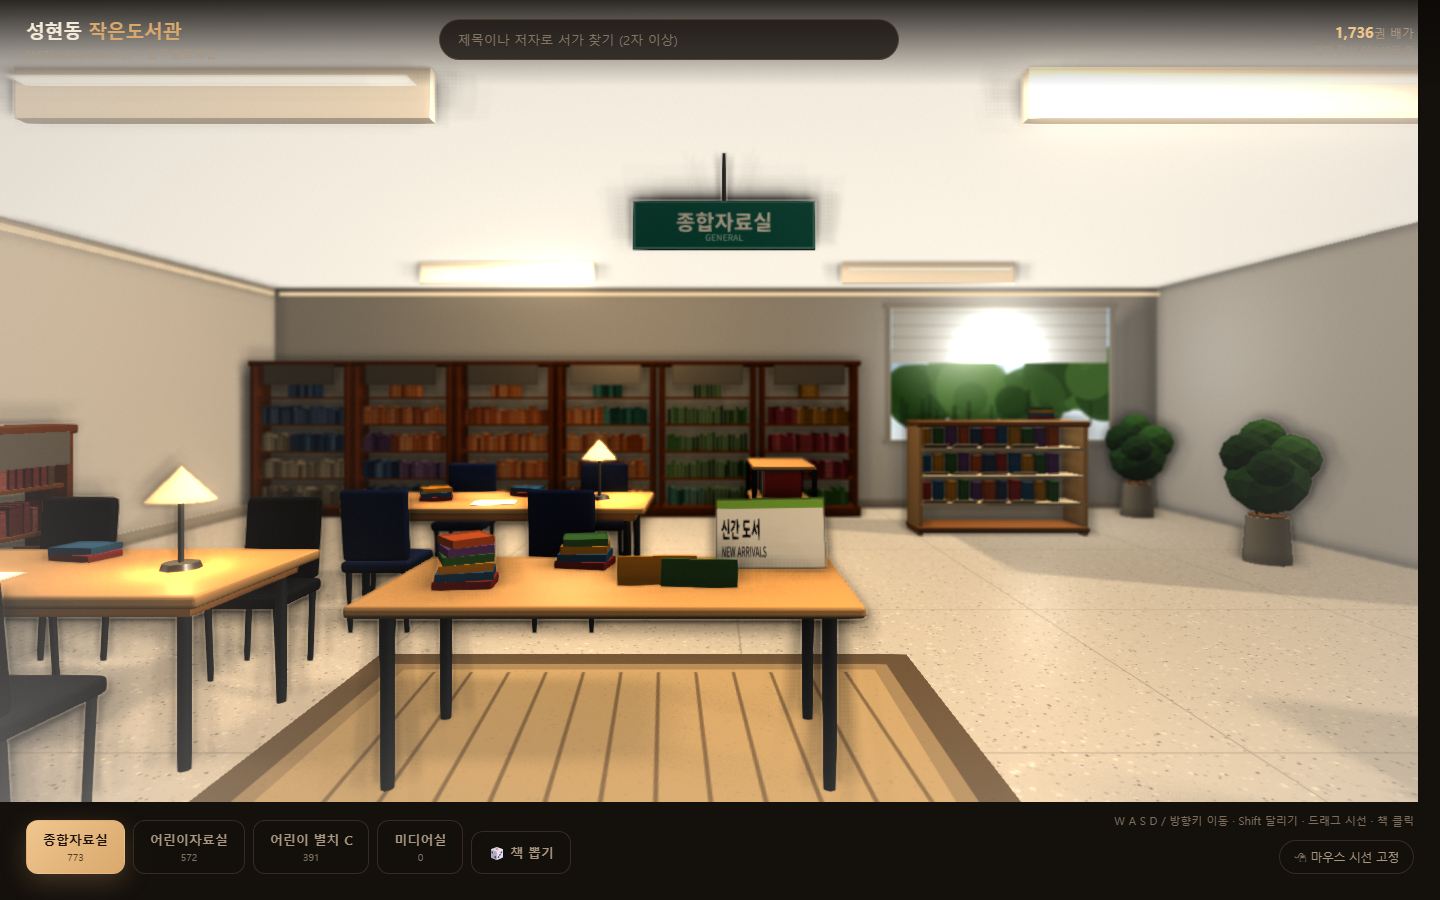
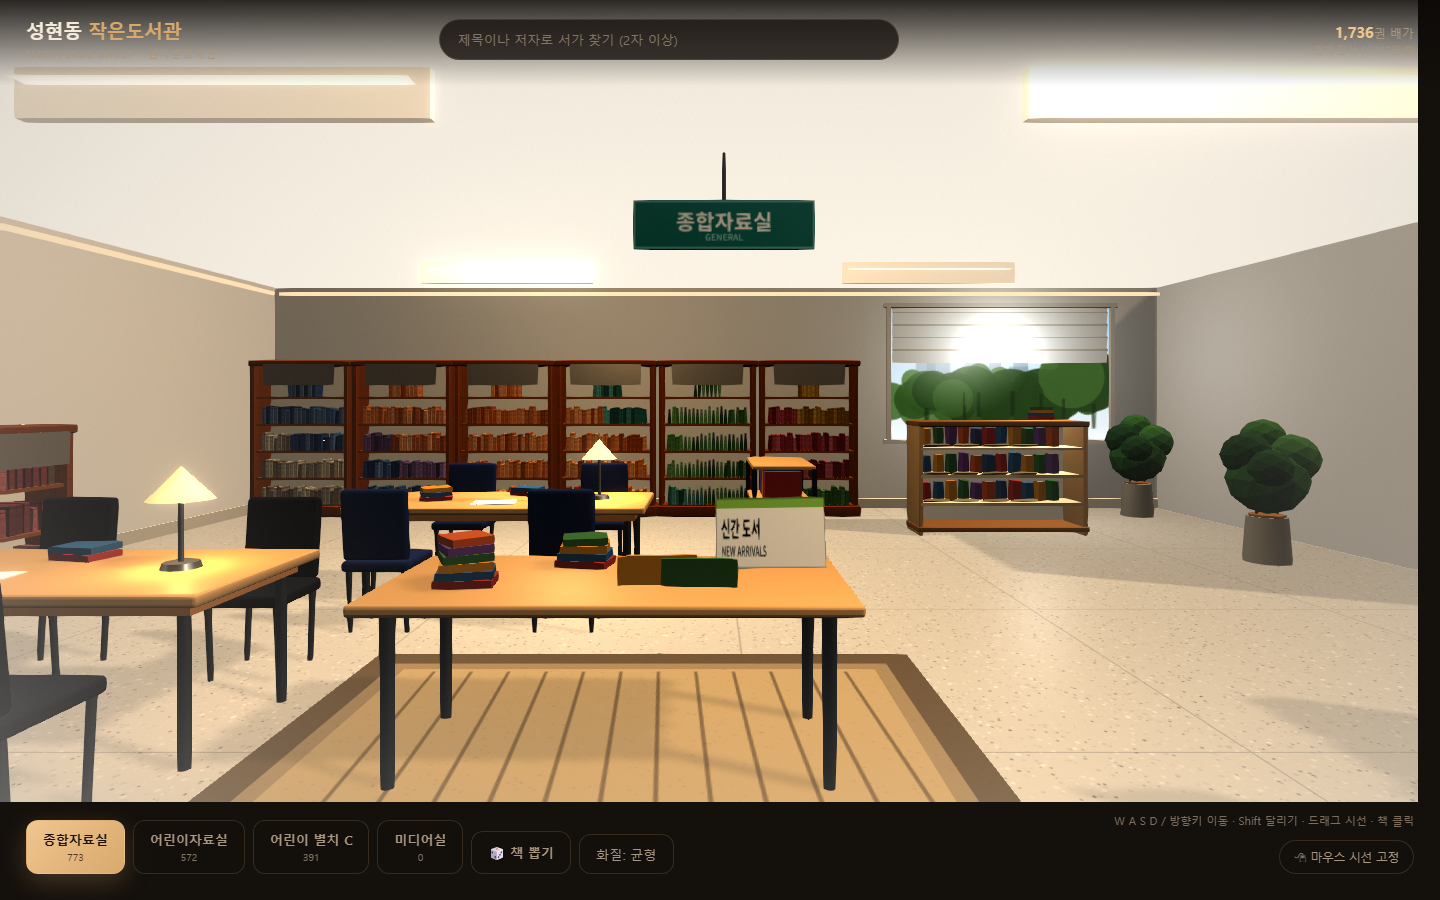
perf: 기본 후처리 1-pass화·그림자 경량화, INT-002 등록
- src/scene/Post.tsx: SSAO·보케를 ?quality=high로 게이트, 기본은 블룸·비네트·그레이드·SMAA만 1회 렌더
- src/scene/LibraryCanvas.tsx: SoftShadows 제거, dpr 1.5, 그림자 1024, ContactShadows frames=1·512, 포인트 라이트 4개
- src/scene/ShelfBay.tsx: 서가 프레임 castShadow 제거로 섀도 패스 부하 절감
- src/ui/Hud.tsx: 화질(균형/고품질) 토글 추가
- README·docs/preview: 기본 균형 모드·고품질 옵션 안내 및 미리보기 갱신
- docs/intent: INT-002(이동 버벅거림 해소 + 전량 KDC 배가)와 INDEX 추가

diff --git a/src/scene/Post.tsx b/src/scene/Post.tsx
@@ -51,9 +51,9 @@ const GRADE_SHADER = {
 };
 
 /**
- * 실내 장면의 깊이감을 위한 후처리.
- * SSAO(접지 음영) + 약한 블룸 + 비네트 + SMAA.
- * 모바일/소형 화면에서는 비용을 줄이기 위해 SSAO·블룸을 생략한다.
+ * 실내 장면의 후처리.
+ * 기본(균형) 모드: 블룸·비네트·컬러그레이드·SMAA만 사용해 장면을 1회만 렌더링한다.
+ * `?quality=high`일 때만 SSAO·보케를 추가한다(장면 추가 렌더링 → 고사양 전용).
  */
 export function Post() {
   const gl = useThree((s) => s.gl);
@@ -61,12 +61,13 @@ export function Post() {
   const camera = useThree((s) => s.camera);
   const size = useThree((s) => s.size);
   const small = size.width < 900;
+  const high = !small && new URLSearchParams(window.location.search).get('quality') === 'high';
 
   const composer = useMemo(() => {
     const c = new EffectComposer(gl);
     c.addPass(new RenderPass(scene, camera));
 
-    if (!small) {
+    if (high) {
       const ssao = new SSAOPass(scene, camera, size.width, size.height);
       ssao.kernelRadius = 0.32;
       ssao.minDistance = 0.0008;
@@ -80,10 +81,15 @@ export function Post() {
         maxblur: 0.006,
       });
       c.addPass(bokeh);
-
-      const bloom = new UnrealBloomPass(new THREE.Vector2(size.width, size.height), 0.1, 0.6, 0.95);
-      c.addPass(bloom);
     }
+
+    const bloom = new UnrealBloomPass(
+      new THREE.Vector2(size.width, size.height),
+      high ? 0.1 : 0.055,
+      0.6,
+      0.95
+    );
+    c.addPass(bloom);
 
     const vignette = new ShaderPass(VignetteShader);
     vignette.uniforms.offset.value = 1.04;
@@ -94,7 +100,7 @@ export function Post() {
     c.addPass(new SMAAPass());
     return { composer: c, grade };
     // eslint-disable-next-line react-hooks/exhaustive-deps
-  }, [gl, scene, camera, small]);
+  }, [gl, scene, camera, small, high]);
 
   useEffect(() => {
     composer.composer.setSize(size.width, size.height);

diff --git a/src/scene/LibraryCanvas.tsx b/src/scene/LibraryCanvas.tsx
@@ -1,6 +1,6 @@
 import { Suspense, useEffect } from 'react';
 import { Canvas, useThree } from '@react-three/fiber';
-import { ContactShadows, Environment, Lightformer, SoftShadows } from '@react-three/drei';
+import { ContactShadows, Environment, Lightformer } from '@react-three/drei';
 import * as THREE from 'three';
 import { useLibrary } from '../store';
 import { Room } from './Room';
@@ -36,7 +36,7 @@ function Lights() {
         intensity={1.1}
         color="#fff3e2"
         castShadow
-        shadow-mapSize={[2048, 2048]}
+        shadow-mapSize={[1024, 1024]}
         shadow-camera-left={-20}
         shadow-camera-right={20}
         shadow-camera-top={20}
@@ -51,7 +51,6 @@ function Lights() {
         [-12.0, -3.0],
         [-9.0, 2.5],
         [7.0, -5.0],
-        [1.0, 2.0],
         [13.0, 0.0],
       ].map(([x, z], i) => (
         <pointLight
@@ -85,7 +84,8 @@ function Scene() {
         blur={2.6}
         far={4}
         opacity={0.3}
-        resolution={1024}
+        frames={1}
+        resolution={512}
         color="#3f342b"
       />
       <FocusBook />
@@ -98,7 +98,7 @@ export function LibraryCanvas() {
   return (
     <Canvas
       shadows
-      dpr={[1, 1.8]}
+      dpr={[1, 1.5]}
       camera={{ fov: 58, near: 0.05, far: 90, position: [-10.6, 1.58, 3.6] }}
       gl={{ antialias: true, powerPreference: 'high-performance' }}
       onCreated={({ gl }) => {
@@ -109,8 +109,7 @@ export function LibraryCanvas() {
       onPointerMissed={() => useLibrary.getState().clearSelection()}
     >
       <color attach="background" args={['#e9e5dc']} />
-      <SoftShadows size={18} samples={10} focus={0.7} />
-      <Environment resolution={256} frames={1}>
+      <Environment resolution={128} frames={1}>
         <Lightformer
           form="rect"
           intensity={2.4}

diff --git a/src/scene/ShelfBay.tsx b/src/scene/ShelfBay.tsx
@@ -191,7 +191,7 @@ export function ShelfBay({ bay }: Props) {
         radius={0.012}
         smoothness={2}
         position={[-width / 2, height / 2, 0]}
-        castShadow
+       
         receiveShadow
       >
         <primitive object={frameMat} attach="material" />
@@ -201,7 +201,7 @@ export function ShelfBay({ bay }: Props) {
         radius={0.012}
         smoothness={2}
         position={[width / 2, height / 2, 0]}
-        castShadow
+       
         receiveShadow
       >
         <primitive object={frameMat} attach="material" />
@@ -217,7 +217,7 @@ export function ShelfBay({ bay }: Props) {
         radius={0.012}
         smoothness={2}
         position={[0, height - 0.035, 0]}
-        castShadow
+       
         receiveShadow
       >
         <primitive object={frameMat} attach="material" />
@@ -227,7 +227,7 @@ export function ShelfBay({ bay }: Props) {
         radius={0.012}
         smoothness={2}
         position={[0, 0.07, 0]}
-        castShadow
+       
         receiveShadow
       >
         <primitive object={frameMat} attach="material" />
@@ -235,7 +235,7 @@ export function ShelfBay({ bay }: Props) {
 
       {/* 선반 */}
       {Array.from({ length: rows }, (_, r) => (
-        <mesh key={r} position={[0, 0.14 + rowGap * r, 0]} receiveShadow castShadow>
+        <mesh key={r} position={[0, 0.14 + rowGap * r, 0]} receiveShadow>
           <boxGeometry args={[width, 0.03, SHELF_DEPTH]} />
           <primitive object={boardMat} attach="material" />
         </mesh>

diff --git a/src/ui/Hud.tsx b/src/ui/Hud.tsx
@@ -214,6 +214,7 @@ export function Hud() {
   const focusBay = useLibrary((s) => s.focusBay);
 
   const zones = layouts ? ZONE_ORDER.map((id) => layouts[id]) : [];
+  const highQuality = new URLSearchParams(window.location.search).get('quality') === 'high';
 
   const randomPick = () => {
     if (!layouts) return;
@@ -254,6 +255,18 @@ export function Hud() {
         ))}
         <button className="zone random" onClick={randomPick} title="현재 자료실에서 무작위로 한 권">
           🎲 책 뽑기
+        </button>
+        <button
+          className="zone quality"
+          title="SSAO·보케를 켜면 더 사실적이지만 GPU 부하가 큽니다"
+          onClick={() => {
+            const url = new URL(window.location.href);
+            if (highQuality) url.searchParams.delete('quality');
+            else url.searchParams.set('quality', 'high');
+            window.location.href = url.toString();
+          }}
+        >
+          {highQuality ? '화질: 고품질' : '화질: 균형'}
         </button>
       </nav>
 

diff --git a/docs/intent/planned/INT-002-walk-jank-and-full-kdc-shelving/intent.md b/docs/intent/planned/INT-002-walk-jank-and-full-kdc-shelving/intent.md
@@ -1,0 +1,56 @@
+---
+id: INT-002
+title: 3D 도서관 이동 버벅거림 해소 + 전체 56,307권 KDC 배가
+status: planned
+priority: P2
+created: 2026-11-12
+updated: 2026-11-12
+updated_at: 2026-11-12T20:19:46+09:00
+---
+
+# Intent: 3D 도서관 이동 버벅거림 해소 + 전체 56,307권 KDC 배가
+
+## 문제 (Problem)
+- 1인칭 도보(WASD·포인터 락)로 이동할 때 프레임이 끊긴다. 커밋 기준으로는 SSAO·Bokeh·Bloom·SMAA 후처리, ContactShadows(1024·매 프레임), 2048 그림자, SoftShadows가 겹쳐 돌았고, 포인터가 책 위를 지날 때마다 hover 스토어 갱신과 레이캐스트가 발생한다. 작업 트리에는 1차 경량화(후처리 `?quality=high` 게이트, ContactShadows `frames=1`·512, 그림자 1024, dpr 1.5, SoftShadows 제거)가 미커밋 상태로 존재하나 실측·검증 전이다.
+- 현재 3D 서가에는 섹션별 예산(budget)만큼 표본 1,736권만 배가되어 있어, 실제 56,307권이 서가에 있다는 사실과 화면이 불일치한다. 31,352권은 `shelf_loc_name`이 비어 `other`로 분류되어 배가 대상에서 빠졌다.
+
+## 제안 결과 (Proposed outcome)
+- 이동 중 체감 끊김 없이 걸어 다닐 수 있다. 데스크톱 60fps(모바일 30fps) 기준으로 후처리·그림자·hover 비용이 예산 안에 유지되고, 부족할 때는 화질이 자동 하향된다.
+- 로컬 `data/catalog.json`의 56,307권 전량이 KDC(`k`)·청구기호(`call`) 순으로 자료실·섹션 서가에 배치된다(런타임 도서관정보나루 API 호출 없음). 검색으로 어느 책이든 해당 서가·위치로 이동할 수 있고 상세 패널(표지·소장·청구기호)이 동작한다.
+- 전량 배가 이후에도 이동 성능 목표가 유지된다(렌더 밀도 LOD·지연 로딩 적용).
+
+## 영향 사용자 및 시스템 (Affected users and systems)
+- 사용자: 3D 도서관을 도보로 둘러보는 이용자(데스크톱·모바일 브라우저), 특정 책을 서가에서 찾는 이용자.
+- 시스템: `src/scene/Post.tsx`, `src/scene/LibraryCanvas.tsx`, `src/scene/ShelfBay.tsx`, `src/scene/Player.tsx`, `src/ui/Hud.tsx`, `src/store.ts`, `scripts/build-shelves.mjs`, `src/data/sections.ts`·`layout.ts`, `public/data/*`, 신규 전량 배가 데이터 파이프라인.
+
+## 제약 (Constraints)
+- React 19 + @react-three/fiber + three 스택을 유지하고, 신규 의존성·외부 에셋은 도입하지 않는다.
+- `.env`의 API 키는 브라우저에 노출하지 않는다. 이번 배가는 런타임 API 없이 로컬 카탈로그만 사용한다.
+- 작업 트리에 있는 미커밋 1차 최적화(후처리 게이트·그림자·dpr)를 되돌리지 않고, 실측으로 효과를 확인한 뒤 남은 병목만 보완한다.
+- `data/catalog.json`(20.5MB)을 그대로 클라이언트에 내려보내지 않는다. 존·섹션 단위 분할, 지연 로딩, 압축이 필요하다.
+- 현재 모델링된 베이 물리 용량은 `rows×cols×maxBays` 합계 2,356슬롯으로 56,307권의 4.2%에 불과하다. 전량 배가는 데이터 구조와 렌더 밀도 설계가 함께 필요하다.
+- KDC(`k`)가 없는 390권과 자료실 정보가 없는 31,352권의 존 배정 규칙을 정해야 한다(추정으로 채우되 근거를 남긴다).
+
+## 배경 · 결정 · 참조 (Context handoff)
+- 원 요구: "이동할 때 버벅거림이 심하다 — 어떻게 줄일까" + "56,000권이 실제 서가에 다 배가되어 있다. API 없더라도 KDC 보고 전부 배치해 달라". (출처: 대화 요청)
+- D-01: 성능 개선과 전량 배가를 하나의 intent로 묶고 성능 예산 확보를 선행 조건으로 둔다 — 근거: 전량 배가가 렌더 부하를 키우므로 순서를 분리하면 재작업이 발생 / 폐기 대안: 2개 intent 분리.
+- D-02: 배가 원천은 로컬 `data/catalog.json`(56,307권)이고 런타임 API는 쓰지 않는다 — 근거: 사용자가 API 없이 KDC 배치를 요청했고 카탈로그에 `k`·`call`이 존재 / 폐기 대안: `harvest.mjs` 재수집.
+- D-03: 1차 경량화가 작업 트리에 있으나 성능 목표는 미검증이다 — T-01에서 남은 병목(hover 레이캐스트·setWalk 이벤트, 전량 배가 시 렌더 밀도)을 실측해 확정한다.
+- 참조: `src/scene/Post.tsx:109` 매 프레임 `composer.render`, `:86` 블룸 상시 / `src/scene/LibraryCanvas.tsx:87` ContactShadows `frames=1`·512(1차 적용), `:39` 그림자 1024(1차 적용).
+- 참조: `src/scene/ShelfBay.tsx:144` pointermove마다 hover 갱신 → `src/ui/Hud.tsx:213` HUD 리렌더 / `src/scene/Player.tsx:96` 포인터 락 이동마다 `setWalk` 호출.
+- 참조: `scripts/build-shelves.mjs:67` 섹션 budget 기준 표본 추출(placed 1,736) / `scripts/harvest.mjs:56` `shelf_loc_name` 없으면 `other`(31,352권) / `src/data/sections.ts:49` 베이 용량 `rows×cols`, maxBays 합계 2,356슬롯.
+- 범위 밖·전제: 도서관정보나루 실시간 재수집·운영시스템 연동, 실측 도면 치수, 56k 전량의 개별 3D 클릭(렌더 LOD 시 검색·목록으로 대체)은 범위 밖. 전제: 카탈로그의 `k`(KDC)·`call`(저자기호)를 실제 배가 순서의 기준으로 신뢰한다.
+
+## 미해결 질문 (Open questions)
+- [ ] 56,307권을 3D에서 어느 수준으로 표현할까? (① 데이터 전량 + 성능 예산 내 렌더 LOD ② 물리적으로 전량 렌더(베이·밀도 대폭 확장) ③ 기존 표본 유지)
+- [ ] 자료실 정보가 없는 31,352권(`other`)을 어떻게 배정할까? (① KDC만으로 종합자료실 배치 ② KDC·별치 휴리스틱으로 어린이/종합 분배 ③ 배가 제외)
+- [ ] 성능 목표 기기·수치는? (① 데스크톱 60fps + 모바일 30fps ② 데스크톱 60fps만 ③ 최소 사양 기준 별도)
+- [ ] 성능이 부족할 때 화질 자동 하향(후처리·dpr)을 허용할까? (① 허용 ② 고정 화질 ③ 사용자 토글)
+
+## 작업 (Tasks)
+- [ ] T-01 [P1] 이동 중 성능 기준선 실측(프레임 시간·draw call·후처리/그림자 비용) 및 병목 확정
+- [ ] T-02 [P1] 후처리 1차 경량화(`?quality=high` 게이트·dpr 1.5) 검증 및 잔여 비용(블룸 상시) 조정
+- [ ] T-03 [P1] 그림자·조명 1차 경량화(ContactShadows `frames=1`·1024/512, SoftShadows 제거) 검증 및 정적 shadow autoUpdate 검토
+- [ ] T-04 [P1] hover·레이캐스트·setWalk 이벤트 경로 스로틀 및 HUD 리렌더 차단
+- [ ] T-05 [P2] catalog.json 56,307권 전량 KDC·청구기호 순 배가 데이터 생성(존·섹션 분할·지연 로딩)
+- [ ] T-06 [P2] 전량 배가 상태에서 성능 목표 재검증(데스크톱 60fps·모바일 30fps)

diff --git a/README.md b/README.md
@@ -31,7 +31,8 @@
 
 ## 렌더링
 
-- 사진 톤을 위해 ACES 톤매핑, PBR 재질, 환경 라이트(라이트포머), 소프트 섀도, 컨택트 섀도, SSAO·블룸·비네트·필름 그레인 후처리를 적용했습니다.
+- 사진 톤을 위해 ACES 톤매핑, PBR 재질, 환경 라이트(라이트포머), 소프트 섀도, 컨택트 섀도, 블룸·비네트·필름 그레인 후처리를 적용했습니다.
+- 기본은 **균형 모드**(장면 1회 렌더링)이고, `?quality=high`(또는 하단 "화질: 고품질")에서 SSAO·보케를 켭니다.
 - 서가 책은 3중 `InstancedMesh`(표지·페이지·라벨)로 그려 1,736권을 가볍게 렌더링합니다.
 - 모바일/소형 화면에서는 SSAO·블룸·보케를 자동으로 생략합니다.
 

diff --git a/docs/intent/INDEX.md b/docs/intent/INDEX.md
@@ -6,16 +6,17 @@
 ## 요약
 | 상태 | 건수 |
 | :--- | :--- |
-| planned | 1 |
+| planned | 2 |
 | active | 0 |
 | hold | 0 |
 | done | 0 |
-| **합계** | **1** |
+| **합계** | **2** |
 
 ## Planned (미착수)
 | ID | 제목 | 우선순위 | 태스크 | 갱신 |
 | :--- | :--- | :--- | :--- | :--- |
 | [INT-001](planned/INT-001-library-3d-realism/intent.md) | 성현동작은도서관 3D 실사 재현 (서가배치도·내부 사진 기반) | P2 | 8/8 | 2026-11-12 |
+| [INT-002](planned/INT-002-walk-jank-and-full-kdc-shelving/intent.md) | 3D 도서관 이동 버벅거림 해소 + 전체 56,307권 KDC 배가 | P2 | 0/6 | 2026-11-12 |
 
 ## Active (작업 중)
 | ID | 제목 | 우선순위 | 태스크 | 갱신 |

diff --git a/CHANGELOG.md b/CHANGELOG.md
@@ -2,6 +2,12 @@
 
 이 파일은 [Keep a Changelog](https://keepachangelog.com/ko/1.1.0/) 형식을 따르며, `z_skill_git_commit`이 `main`/`master` 커밋 시 버전과 함께 자동 갱신합니다.
 
+## [1.0.6] - 2026-11-12
+
+### Changed
+
+- perf: 기본 후처리 1-pass화·그림자 경량화, INT-002 등록
+
 ## [1.0.5] - 2026-11-12
 
 ### Fixed
